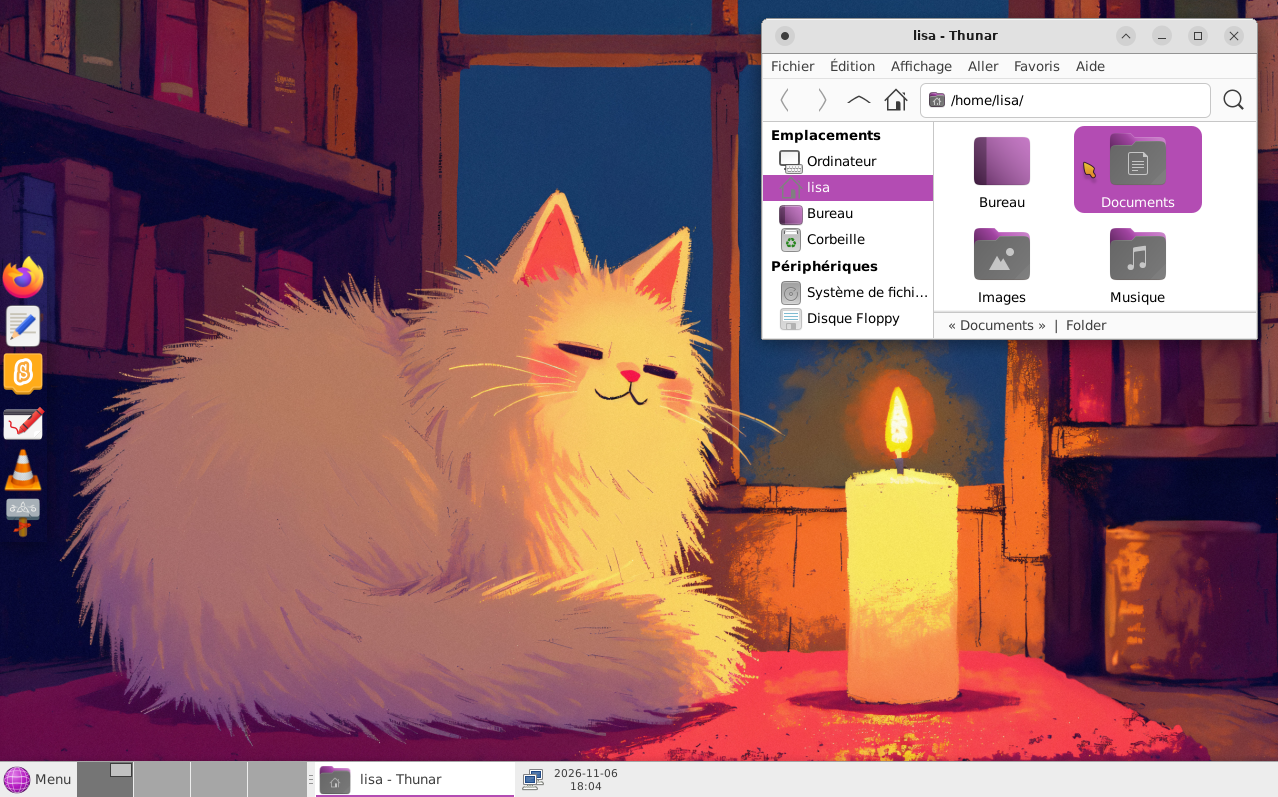
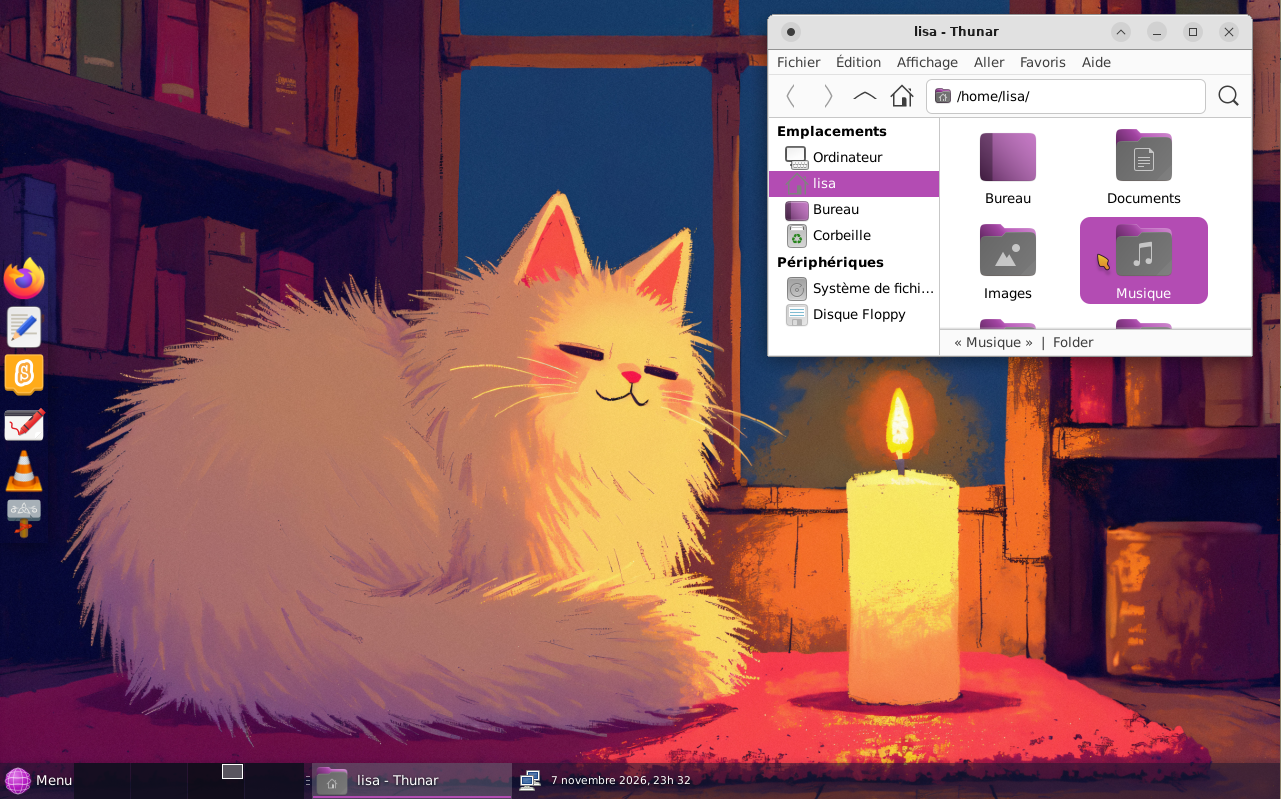
style: bottom panel & clock format

diff --git a/config/includes.chroot_after_packages/etc/skel/.config/gtk-3.0/gtk.css b/config/includes.chroot_after_packages/etc/skel/.config/gtk-3.0/gtk.css
@@ -1,0 +1,38 @@
+/* debian-minimal-kids — lisibilité du panneau XFCE.
+ *
+ * Le panneau du bas est semi-transparent (teinte nuit posée via
+ * background-rgba dans xfce4-panel.xml) ; on force ici le texte en blanc,
+ * avec une ombre portée, pour qu'il reste lisible quelle que soit la zone
+ * du fond d'écran derrière (y compris la lueur chaude de la bougie).
+ *
+ * Sélecteur : le panneau XFCE porte la classe de style "xfce4-panel"
+ * (même ciblage que les thèmes Mint/Greybird). Portée limitée au panneau :
+ * aucune autre application GTK n'est affectée. */
+
+.xfce4-panel {
+    color: #ffffff;
+}
+
+.xfce4-panel label {
+    color: #ffffff;
+    text-shadow: 0 1px 2px rgba(0, 0, 0, 0.9);
+}
+
+.xfce4-panel button {
+    color: #ffffff;
+}
+
+.xfce4-panel button label,
+.xfce4-panel button image {
+    color: inherit;
+}
+
+/* Surbrillances : voiles clairs translucides (le texte blanc reste lisible) */
+.xfce4-panel button:hover {
+    background-color: rgba(255, 255, 255, 0.12);
+}
+
+.xfce4-panel button:checked,
+.xfce4-panel button:active {
+    background-color: rgba(255, 255, 255, 0.18);
+}

diff --git a/README.md b/README.md
@@ -84,8 +84,13 @@ paquet `flatpak` est déclaré dans `apps.list.chroot`).
 Le bureau livré par défaut est défini dans
 `config/includes.chroot_after_packages/etc/skel/.config/xfce4/` :
 
-- un **panneau horizontal en bas** (36 px) : menu des applications, bureaux,
-  liste des fenêtres, zone de notification, horloge ;
+- un **panneau horizontal en bas** (36 px), **semi-transparent** (teinte nuit
+  à 55 % d'opacité via `background-rgba`) avec **texte blanc forcé par
+  `~/.config/gtk-3.0/gtk.css`** — le fond d'écran reste visible tout en
+  garantissant la lisibilité : bouton Menu, bureaux, liste des fenêtres,
+  zone de notification, et une horloge affichant la date complète au format
+  « 7 novembre 2026, 22h 29 » (`digital-time-format` = `%-d %B %Y, %Hh %M`,
+  interprété par GLib) ;
 - un **dock vertical à gauche** (48 px), centré, **transparent** et **ajusté à
   la taille de ses icônes**, avec six lanceurs, dans l'ordre : Firefox, Gedit,
   Scratch, Dessin, VLC, Thunar ;
@@ -165,6 +170,7 @@ live, puis de recopier `~/.config/xfce4/` modifié dans `etc/skel/` du dépôt.
 | `config/includes.chroot_after_packages/etc/skel/` | Configuration XFCE par défaut (panneaux, lanceurs, thème, autostart) |
 | `config/includes.chroot_after_packages/usr/share/backgrounds/debian-minimal-kids/` | Fond d'écran par défaut |
 | `config/includes.chroot_after_packages/usr/share/icons/hicolor/scalable/apps/kids-menu-globe.svg` | Icône « globe violet » du bouton Menu |
+| `config/includes.chroot_after_packages/etc/skel/.config/gtk-3.0/gtk.css` | Texte blanc + ombre sur le panneau XFCE (lisibilité sur fond transparent) |
 | `config/includes.chroot_after_packages/usr/share/backgrounds/xfce/xfce-x.svg` | Lien vers notre fond : remplace l'image par défaut de xfdesktop |
 | `config/includes.chroot_after_packages/usr/local/bin/kids-set-wallpaper` | Pose `last-image` sur chaque moniteur à l'ouverture de session (complément) |
 | `build.sh` / `clean.sh` | Scripts pratiques |
